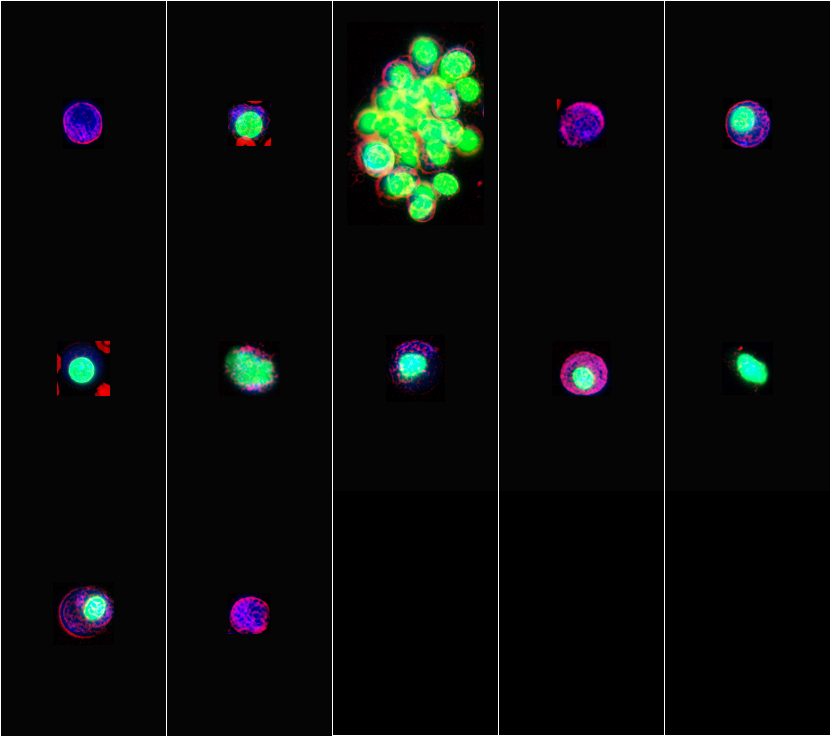
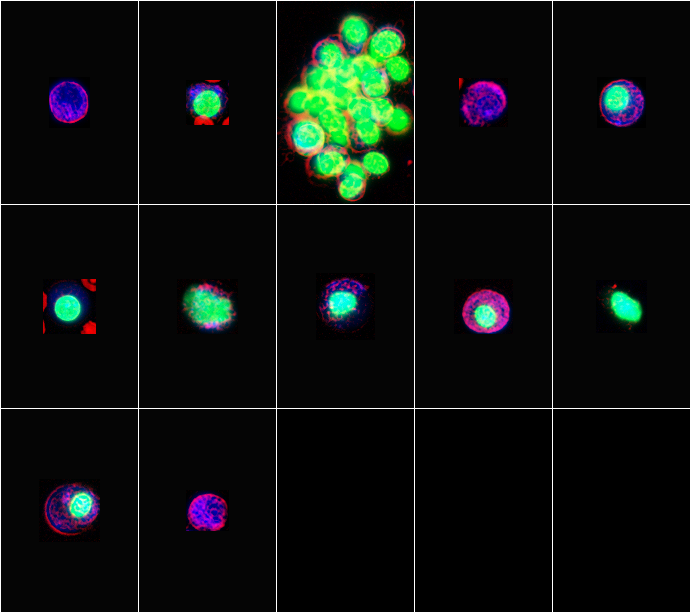
for zero-padded grid cells, properly draws mosaic of mast cells

diff --git a/app.js b/app.js
@@ -77,6 +77,8 @@ app.use(express.json());
   }
 
 
+
+// TODO: for non-zero padding, gridlines are not drawn correctly.  Need to fix this.
 async function createMosaic(gridData, cellType, padding=0) {
   const mosaicRows = gridData[0].length;
   const mosaicCols = gridData[0][0].length;
@@ -94,6 +96,9 @@ async function createMosaic(gridData, cellType, padding=0) {
   let maxCellHeight = 0;
   for (let row = 0; row < mosaicRows; row++) {
     for (let col = 0; col < mosaicCols; col++) {
+	  if (typeof(gridData[grid][row][col]) === 'undefined') {
+		continue;
+	  }
       const imageFile = `${baseDir}/${gridData[grid][row][col]}`;
       if (!fs.existsSync(imageFile)) { 
         continue; 
@@ -139,7 +144,7 @@ async function createMosaic(gridData, cellType, padding=0) {
       const xOffset = col * (maxCellWidth + gridLineWidth) + gridLineWidth;
       const yOffset = row * (maxCellHeight + gridLineWidth) + gridLineWidth;
 
-      if (!fs.existsSync(imageFile)) { 
+      if (typeof(gridData[grid][row][col]) === 'undefined' || !fs.existsSync(imageFile)) { 
         const blankImageWithBackground = await createBlankImage(maxCellWidth, maxCellHeight, { r: 0, g: 0, b: 0 }); // Black image; 
         compositeOperations.push({ input: blankImageWithBackground, top: yOffset, left: xOffset });
         console.log(`Row: ${row}, Col: ${col}, xOffset: ${xOffset}, yOffset: ${yOffset}, width: ${maxCellWidth}, height: ${maxCellHeight}, imageFile: BLANK`);
